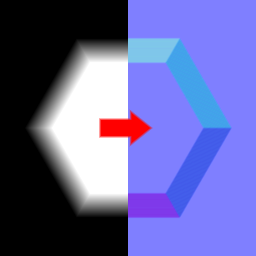
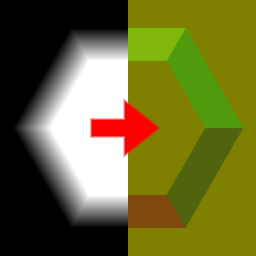
Updated doc (normal convert node)

diff --git a/material_maker/doc/node_filter_normal_map.rst b/material_maker/doc/node_filter_normal_map.rst
@@ -21,10 +21,8 @@ Parameters
 
 The **Normal map** node has the following parameters:
 
-* the *format* of the normal map (default, OpenGL or DirectX). The format should
-  always be set to "default" when connected to the Normal input of a Material node.
-  The correct normal map format for the target game engine will be generated when
-  the material is exported.
+* the *algorithm* used to generate the normal map (Sobel, Scharr, Simple or Cheap).
+  When creating dynamic materials, Cheap is the recommended value
 
 * the *size* of the normal map
 
@@ -33,13 +31,24 @@ The **Normal map** node has the following parameters:
 * the *buffer* parameter decides if the input must be stored in a buffer before
   generating the normal map. Using a buffer is faster but can create artifacts
   in the normal map, and disabling this option will generate more accurate normal
-  maps. It is recommended to enable the buffer while editing a material and
+  maps.
+  For static materials, it is recommended to enable the buffer while editing a material and
   disable it before exporting.
+  For dynamic materials, it is necessary to disable the buffer.
 
 Notes
 +++++
 
-This node outputs an image that has a fixed size.
+This node outputs a specific normal map format that is suited for Material nodes.
+It is intentionnaly and obviously (yellowish instead of blueish) different from
+standard OpenGL and DirectX formats. Connecting OpenGL or DirectX normal maps to
+Material nodes will need to incorrect maps when exporting.
+
+If you need to export DirectX or OpenGL normal maps directly (either using the
+Export node or from a 2D Preview panel), you can use the **Convert Normal Map**
+node.
+
+This node outputs an image that has a fixed size when the buffer option is set.
 
 When using 3D Signed distance functions, it is recommended to use the normal map
 generated by the 3D SDF render node.

diff --git a/material_maker/doc/node_filter_normal_convert.rst b/material_maker/doc/node_filter_normal_convert.rst
@@ -1,0 +1,32 @@
+Normal convert node
+~~~~~~~~~~~~~~~~~~~
+
+The **Normal convert** node converts a normal map from its input. It can:
+
+- either convert from DirectX or OpenGL format to Material Maker's internal
+  format, which is useful when importing normal maps generated by other tools
+- or convert from Material Maker's internal format to DirectX or OpenGL, which
+  is useful to export normal maps without using Material nodes (note that
+  Material nodes only accept "yellowish" internal format, and will generate
+  incorrect normal maps when previewing or exporting if their input is a
+  DirectX or OpenGL normal map)
+
+.. image:: images/node_filter_normal_map_convert.png
+	:align: center
+
+Inputs
+++++++
+
+The **Normal convert** node accepts a single color normal map as input, either in
+Material Maker's internal format or in OpenGL or DirectX format.
+
+Outputs
++++++++
+
+The **Normal convert** node outputs the normal map in another format.
+
+Parameters
+++++++++++
+
+The **Normal convert** node accepts as parameter the format from/to
+which the normal map must be converted.

diff --git a/material_maker/doc/nodes_filter.rst b/material_maker/doc/nodes_filter.rst
@@ -22,6 +22,7 @@ The filter nodes accept one or several inputs and generate one or several images
 	node_filter_decompose
 	node_filter_swapchannels
 	node_filter_normal_map
+	node_filter_normal_convert
 	node_filter_normal_blend
 	node_filter_blur
 	node_filter_blur_fast

diff --git a/material_maker/doc/node_miscellaneous_variations.rst b/material_maker/doc/node_miscellaneous_variations.rst
@@ -1,5 +1,5 @@
 Variations node
-~~~~~~~~~~~
+~~~~~~~~~~~~~~~
 
 The **Variations** node can be used to generate several variations of its input.
 
